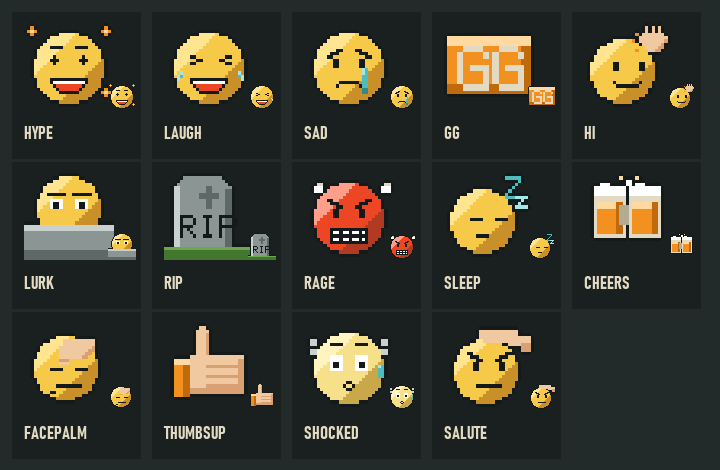
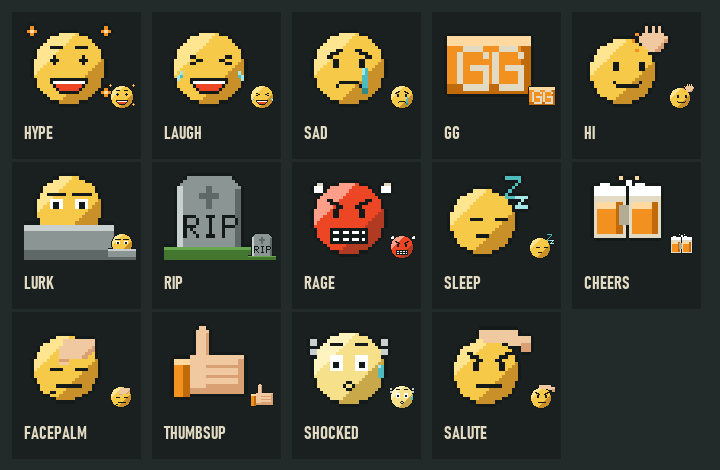
RIP emote: a wider tombstone so the P stays on it

Changed region(s): [[0.2444, 0.3574, 0.3972, 0.5362]]

diff --git a/_build/make_emotes.py b/_build/make_emotes.py
@@ -168,11 +168,12 @@ def lurk():
 
 def rip():
     c = C(); c.rect(0, 24, 28, 4, '#43762f'); c.rect(0, 24, 28, 1, '#6aa84f')
-    c.art(3, 2, ['...XXXXXXXXXXXX...', '..XXXXXXXXXXXXXX..', '.XXXXXXXXXXXXXXXX.'] + ['XXXXXXXXXXXXXXXXXX'] * 19, {'X': GREY})
-    c.rect(3, 5, 2, 19, GREY_L); c.rect(19, 6, 2, 18, GREY_D)
+    c.art(4, 2, ['...XXXXXXXXXXXXXX...', '..XXXXXXXXXXXXXXXX..', '.XXXXXXXXXXXXXXXXXX.'] + ['XXXXXXXXXXXXXXXXXXXX'] * 19, {'X': GREY})
+    c.rect(4, 5, 2, 19, GREY_L); c.rect(22, 6, 2, 18, GREY_D)
     c.rect(13, 5, 2, 7, GREY_D); c.rect(11, 7, 6, 2, GREY_D)   # a cross
-    c.text('R', 5, 14, INK, 1); c.text('I', 11, 14, INK, 1); c.text('P', 17, 14, INK, 1)
+    c.text('R', 6, 14, INK, 1); c.text('I', 12, 14, INK, 1); c.text('P', 18, 14, INK, 1)   # RIP, 5 pixels per letter, all on the stone (x 6 to 22)
     return c
+
 
 def rage():
     c = C(); c.face(14, 15, 11, (RUST, RUST_L, RUST_D)); c.brows('angry', 9); c.eyes('dot', 12); c.mouth('teeth')
